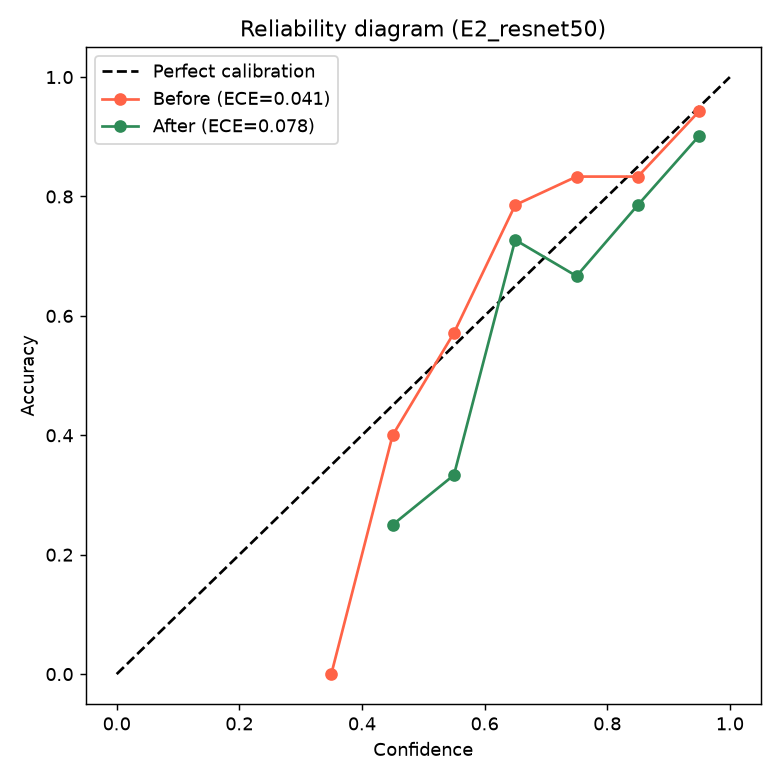
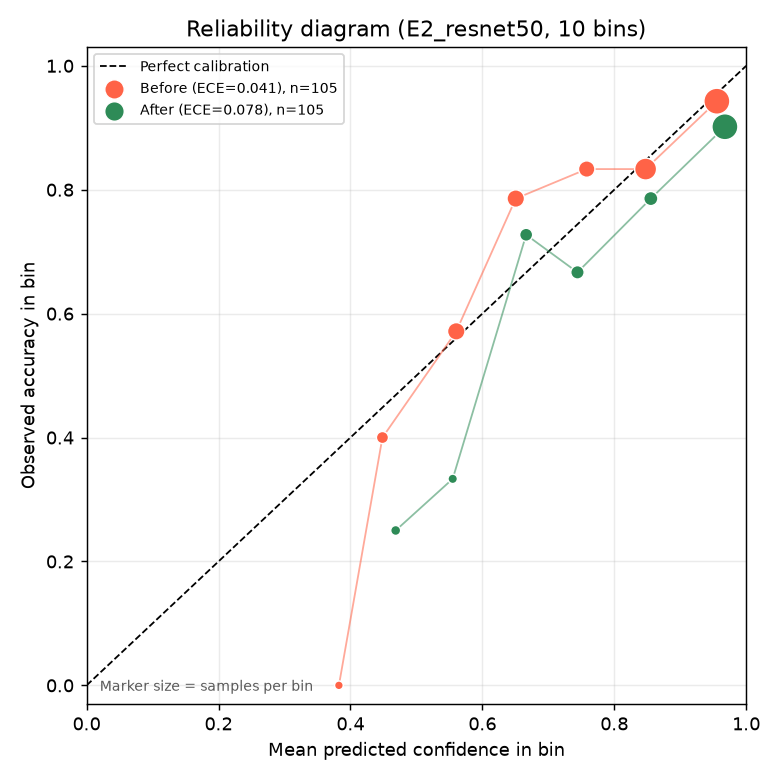
Keep source radiographs out of the report and fix calibration diagrams
Embed only aggregate figures in the report. The Grad-CAM galleries stay in
reports/figures because they contain the source images, and E7 now reports a
summary table instead of per-image rows. The reliability diagram sizes markers
by bin count and places them at the mean confidence of each bin. Add validation
reference numbers to the E8 output so the report can explain why the fitted
temperature does not transfer. Remove the HTML export.

diff --git a/scripts/05_build_report.py b/scripts/05_build_report.py
@@ -385,18 +385,25 @@ def build_report():
             "it cannot change accuracy. It only redistributes confidence across the probability scale. "
             + (
                 f"The class-weighted model is underconfident rather than overconfident, with a gap of "
-                f"{fmt(cw['overconfidence_gap_before'], 2)} between confidence and accuracy, and scaling closes a "
-                f"small part of it, moving ECE from {fmt(cw['ece_before'], 3)} to {fmt(cw['ece_after'], 3)}. "
+                f"{fmt(cw['overconfidence_gap_before'], 2)} between confidence and accuracy. Its temperature of "
+                f"{fmt(cw['temperature'], 2)} pulls confidence up from {fmt(cw['mean_confidence_before'], 2)} to "
+                f"{fmt(cw['mean_confidence_after'], 2)} and moves ECE from {fmt(cw['ece_before'], 3)} to "
+                f"{fmt(cw['ece_after'], 3)}, a marginal improvement. "
                 if cw
                 else ""
             )
             + (
-                f"The unweighted model is calibrated better to begin with, at {fmt(e2['ece_before'], 3)}, yet the "
-                f"same procedure makes it worse, rising to {fmt(e2['ece_after'], 3)}. The reason is that its "
-                "confidence had concentrated around a single answer, and the fitted scale sharpens that further "
-                "instead of spreading it. A low ECE is therefore not evidence that a model is trustworthy: a "
-                "classifier that answers one class with moderate confidence can look well calibrated while missing "
-                "every other class."
+                f"The unweighted model looks better calibrated to begin with, at {fmt(e2['ece_before'], 3)}, and the "
+                f"same procedure makes it worse, raising the error to {fmt(e2['ece_after'], 3)}. The cause is "
+                f"visible in the fitted value. A temperature of {fmt(e2['temperature'], 2)} is below one, so scaling "
+                "sharpens the distribution instead of softening it. It was fitted on a validation set where mean "
+                f"confidence of {fmt(e2['mean_confidence_val'], 2)} ran well below an accuracy of "
+                f"{fmt(e2['accuracy_val'], 2)}, and the fit read that gap as a sign of an underconfident model. On "
+                f"the test set the sharpened predictions then average {fmt(e2['mean_confidence_after'], 2)} "
+                f"confidence against {fmt(e2['accuracy'], 2)} accuracy, so the model ends up overconfident instead. "
+                "A single temperature estimated from 99 images did not transfer to 105 different ones. A low ECE is "
+                "therefore not evidence that a model is trustworthy. A classifier that answers one class with "
+                "moderate confidence can look well calibrated while missing every other class."
                 if e2
                 else ""
             )
@@ -430,21 +437,31 @@ def build_report():
         attn = pd.concat(frames, ignore_index=True)
         means = attn.groupby("Experiment")["central_attention_fraction"].mean()
         hit = attn.assign(correct=attn["true"] == attn["pred"]).groupby("Experiment")["correct"].mean()
+        spread = attn.groupby("Experiment")["central_attention_fraction"].agg(["min", "max"])
+        summary_table = pd.DataFrame(
+            {
+                "Experiment": means.index,
+                "Images": attn.groupby("Experiment").size().values,
+                "Mean central attention": [pct(means[tag]) for tag in means.index],
+                "Attention range": [f"{fmt(spread.loc[tag, 'min'])} - {fmt(spread.loc[tag, 'max'])}" for tag in means.index],
+                "Predicted correctly": [pct(hit[tag]) for tag in means.index],
+            }
+        )
         desc = " ".join(
             f"Across its eight sampled images, {tag} places a mean of {pct(means[tag])} of the activation energy in "
             f"the central region and classifies {pct(hit[tag])} of them correctly."
             for tag in e7_by_tag
         )
-        figs = "\n\n".join(f"![gradcam {tag}](figures/e7_gradcam_gallery_{tag}.png)" for tag in e7_by_tag)
+        # The galleries show the original radiographs next to the heatmaps, so they are part of the
+        # per-image results and stay out of the report. The aggregated attention table is enough.
         interp = (
-            "Both models concentrate most of their attention over the lungs rather than on borders, markers or text, "
-            "which is the reassuring case. The class-weighted model is the more consistent of the two. Its heatmaps "
-            "sit high in the central fraction on most samples and cover both lungs, including on the one viral case "
-            "it classifies correctly rather than defaulting to COVID-19. The unweighted model also looks at the chest, "
-            "but its heatmaps are weaker on the minority cases, which matches its near-total reliance on the "
-            "majority class in the previous sections. Grad-CAM supports this reading but cannot prove it. A heatmap "
-            "inside the chest does not establish that the model responds to the radiological findings a clinician "
-            "would use."
+            "Both models spend most of their activation energy in the central region rather than on borders, markers "
+            "or text, which is the reassuring case. The class-weighted model goes further, placing a higher share "
+            "inside the lungs on average, but it is also less accurate on these particular images. That contrast "
+            "is worth stating plainly: attention that sits over the chest does not make the prediction right. "
+            "Grad-CAM supports the reading that neither model relies on image clutter, but it cannot prove it. A "
+            "heatmap inside the chest does not establish that the model responds to the radiological findings a "
+            "clinician would use."
         )
         sections.append(AnalysisSection(
             title="Where the models look: Grad-CAM (E7)",
@@ -452,11 +469,13 @@ def build_report():
             method="Grad-CAM is computed on the last convolutional block for eight randomly sampled test images per "
                    "model, and the fraction of activation energy falling inside the central region is used as a "
                    "rough indicator of focus on the lungs.",
-            results=figs + "\n\n" + markdown_table(attn.round(3)),
+            results=markdown_table(summary_table),
             description=desc,
             interpretation=interp,
             limitations="Without lung masks the central region is only a coarse proxy, Grad-CAM outputs are low "
-                        "resolution, and eight images per model cannot represent the dataset.",
+                        "resolution, and eight images per model cannot represent the dataset. The heatmap "
+                        "galleries are kept in reports/figures/e7_gradcam_* because they contain the source "
+                        "radiographs, and per-image results are not reproduced here.",
         ))
 
     # ---------- Bootstrap CI ----------

diff --git a/scripts/03_posthoc_analysis.py b/scripts/03_posthoc_analysis.py
@@ -155,24 +155,30 @@ def main():
     test_logits, test_labels, test_probs = forward_logits(model, test_loader, device)
     test_pred = test_probs.argmax(axis=1)
 
+    n_bins = int(cfg["calibration"]["n_bins"])
     conf, correct = prediction_confidences(test_probs, test_pred, test_labels)
-    ece_before, bins_before = expected_calibration_error(conf, correct, cfg["calibration"]["n_bins"])
+    ece_before, bins_before = expected_calibration_error(conf, correct, n_bins)
 
     scaler = TemperatureScaler()
     temp = scaler.fit(val_logits, val_labels)
     scaled_probs = scaler.transform_probs(test_logits)
     scaled_pred = scaled_probs.argmax(axis=1)
     conf_s, correct_s = prediction_confidences(scaled_probs, scaled_pred, test_labels)
-    ece_after, bins_after = expected_calibration_error(conf_s, correct_s, cfg["calibration"]["n_bins"])
+    ece_after, bins_after = expected_calibration_error(conf_s, correct_s, n_bins)
 
     thresholds = [0.3, 0.4, 0.5, 0.6, 0.7, 0.8, 0.9]
     selective = [selective_prediction(conf_s, scaled_pred, test_labels, t) for t in thresholds]
 
+    val_pred = val_probs.argmax(axis=1)
     calib = {
         "temperature": temp,
         "ece_before": ece_before,
         "ece_after": ece_after,
         "mean_confidence_before": float(conf.mean()),
+        "mean_confidence_after": float(conf_s.mean()),
+        # Validation reference, so the report can explain why a fitted temperature may not transfer.
+        "mean_confidence_val": float(val_probs.max(axis=1).mean()),
+        "accuracy_val": float((val_pred == val_labels).mean()),
         "accuracy": float((test_pred == test_labels).mean()),
         "overconfidence_gap_before": float(conf.mean() - (test_pred == test_labels).mean()),
         "selective_prediction": selective,
@@ -184,17 +190,28 @@ def main():
 
     # reliability diagram
     fig, ax = plt.subplots(figsize=(6, 6))
-    ax.plot([0, 1], [0, 1], "k--", label="Perfect calibration")
+    ax.plot([0, 1], [0, 1], "k--", lw=1, label="Perfect calibration")
     for bins, lbl, color in [(bins_before, f"Before (ECE={ece_before:.3f})", "tomato"),
                              (bins_after, f"After (ECE={ece_after:.3f})", "seagreen")]:
-        bdf = pd.DataFrame(bins).dropna(subset=["accuracy"])
+        bdf = pd.DataFrame(bins)
+        bdf = bdf[bdf["count"] > 0].dropna(subset=["accuracy"])
         if len(bdf):
-            centers = (bdf["bin_lo"] + bdf["bin_hi"]) / 2
-            ax.plot(centers, bdf["accuracy"], marker="o", label=lbl, color=color)
-    ax.set_xlabel("Confidence")
-    ax.set_ylabel("Accuracy")
-    ax.set_title(f"Reliability diagram ({tag})")
-    ax.legend()
+            # Point size follows the number of samples in the bin. Empty bins carry no
+            # evidence and are left out, so the curve never implies more data than exists.
+            sizes = 18 + 190 * (bdf["count"] / bdf["count"].max())
+            ax.scatter(bdf["avg_confidence"], bdf["accuracy"], s=sizes, color=color,
+                       edgecolor="white", linewidth=0.8, zorder=3,
+                       label=f"{lbl}, n={int(bdf['count'].sum())}")
+            ax.plot(bdf["avg_confidence"], bdf["accuracy"], color=color, lw=1, alpha=0.55, zorder=2)
+    ax.set_xlabel("Mean predicted confidence in bin")
+    ax.set_ylabel("Observed accuracy in bin")
+    ax.set_xlim(0, 1)
+    ax.set_ylim(-0.03, 1.03)
+    ax.grid(alpha=0.25)
+    ax.set_title(f"Reliability diagram ({tag}, {n_bins} bins)")
+    ax.text(0.02, 0.02, "Marker size = samples per bin", transform=ax.transAxes,
+            fontsize=8, color="0.35")
+    ax.legend(loc="upper left", fontsize=8)
     plt.tight_layout()
     plt.savefig(figures / f"e8_reliability_diagram_{tag}.png", dpi=130)
     plt.close()

diff --git a/reports/ANALYSIS_REPORT.md b/reports/ANALYSIS_REPORT.md
@@ -190,7 +190,7 @@ E2_resnet50 enters calibration with an ECE of 0.041 at a mean confidence of 0.79
 
 ### Interpretation
 
-Temperature scaling is fitted on the validation set and then applied to the test set, so by construction it cannot change accuracy. It only redistributes confidence across the probability scale. The class-weighted model is underconfident rather than overconfident, with a gap of -0.07 between confidence and accuracy, and scaling closes a small part of it, moving ECE from 0.153 to 0.148. The unweighted model is calibrated better to begin with, at 0.041, yet the same procedure makes it worse, rising to 0.078. The reason is that its confidence had concentrated around a single answer, and the fitted scale sharpens that further instead of spreading it. A low ECE is therefore not evidence that a model is trustworthy: a classifier that answers one class with moderate confidence can look well calibrated while missing every other class. Selective prediction splits along the same fault line. For the unweighted model, abstaining on low-confidence cases pushes accuracy from 0.80 at full coverage to about 0.90 when roughly 58% of the images are retained, but the retained images are the ones it was already calling COVID-19, so the gain reflects the majority class rather than new diagnostic ability. For the class-weighted model no threshold reaches 0.62 accuracy, so there is no operating point worth setting. Abstention can express uncertainty, but it cannot supply the missing class information.
+Temperature scaling is fitted on the validation set and then applied to the test set, so by construction it cannot change accuracy. It only redistributes confidence across the probability scale. The class-weighted model is underconfident rather than overconfident, with a gap of -0.07 between confidence and accuracy. Its temperature of 0.66 pulls confidence up from 0.49 to 0.58 and moves ECE from 0.153 to 0.148, a marginal improvement. The unweighted model looks better calibrated to begin with, at 0.041, and the same procedure makes it worse, raising the error to 0.078. The cause is visible in the fitted value. A temperature of 0.71 is below one, so scaling sharpens the distribution instead of softening it. It was fitted on a validation set where mean confidence of 0.74 ran well below an accuracy of 0.85, and the fit read that gap as a sign of an underconfident model. On the test set the sharpened predictions then average 0.86 confidence against 0.80 accuracy, so the model ends up overconfident instead. A single temperature estimated from 99 images did not transfer to 105 different ones. A low ECE is therefore not evidence that a model is trustworthy. A classifier that answers one class with moderate confidence can look well calibrated while missing every other class. Selective prediction splits along the same fault line. For the unweighted model, abstaining on low-confidence cases pushes accuracy from 0.80 at full coverage to about 0.90 when roughly 58% of the images are retained, but the retained images are the ones it was already calling COVID-19, so the gain reflects the majority class rather than new diagnostic ability. For the class-weighted model no threshold reaches 0.62 accuracy, so there is no operating point worth setting. Abstention can express uncertainty, but it cannot supply the missing class information.
 
 ### Limitations
 
@@ -204,38 +204,20 @@ The temperature is fitted on only 99 validation images, and ECE depends on the n
 
 ### Results
 
-![gradcam E2_resnet50](figures/e7_gradcam_gallery_E2_resnet50.png)
-
-![gradcam E4_resnet50_class_weighted](figures/e7_gradcam_gallery_E4_resnet50_class_weighted.png)
-
-| filename | true | pred | confidence | central_attention_fraction | Experiment |
-| --- | --- | --- | --- | --- | --- |
-| bdc40f9ad2395d88c92479089f5d1b_jumbo-10.jpeg | Bacterial_Pneumonia | COVID-19 | 0.8080 | 0.6450 | E2_resnet50 |
-| tpmd200203f2-c.png | COVID-19 | COVID-19 | 0.9610 | 0.5370 | E2_resnet50 |
-| 000001-4.jpg | Viral_Pneumonia | COVID-19 | 0.5390 | 0.4820 | E2_resnet50 |
-| 5782ae15.jpg | COVID-19 | COVID-19 | 0.8580 | 0.8100 | E2_resnet50 |
-| 16953_4_1.jpg | COVID-19 | COVID-19 | 0.8710 | 0.8270 | E2_resnet50 |
-| covid-19-pneumonia-progression-and-regression-day13.jpg | COVID-19 | COVID-19 | 0.9820 | 0.8490 | E2_resnet50 |
-| gr1_lrg-b.jpg | COVID-19 | COVID-19 | 0.9590 | 0.6640 | E2_resnet50 |
-| covid-19-caso-95-1-15.png | COVID-19 | COVID-19 | 0.6400 | 0.6730 | E2_resnet50 |
-| bdc40f9ad2395d88c92479089f5d1b_jumbo-10.jpeg | Bacterial_Pneumonia | COVID-19 | 0.4280 | 0.7190 | E4_resnet50_class_weighted |
-| tpmd200203f2-c.png | COVID-19 | COVID-19 | 0.6000 | 0.4940 | E4_resnet50_class_weighted |
-| 000001-4.jpg | Viral_Pneumonia | Viral_Pneumonia | 0.3820 | 0.9430 | E4_resnet50_class_weighted |
-| 5782ae15.jpg | COVID-19 | COVID-19 | 0.3830 | 0.7720 | E4_resnet50_class_weighted |
-| 16953_4_1.jpg | COVID-19 | Bacterial_Pneumonia | 0.6930 | 0.9320 | E4_resnet50_class_weighted |
-| covid-19-pneumonia-progression-and-regression-day13.jpg | COVID-19 | COVID-19 | 0.6810 | 0.8850 | E4_resnet50_class_weighted |
-| gr1_lrg-b.jpg | COVID-19 | COVID-19 | 0.5300 | 0.7180 | E4_resnet50_class_weighted |
-| covid-19-caso-95-1-15.png | COVID-19 | Bacterial_Pneumonia | 0.3880 | 0.9390 | E4_resnet50_class_weighted |
+| Experiment | Images | Mean central attention | Attention range | Predicted correctly |
+| --- | --- | --- | --- | --- |
+| E2_resnet50 | 8 | 69% | 0.4821 - 0.8494 | 75% |
+| E4_resnet50_class_weighted | 8 | 80% | 0.4943 - 0.9433 | 62% |
 
 Across its eight sampled images, E2_resnet50 places a mean of 69% of the activation energy in the central region and classifies 75% of them correctly. Across its eight sampled images, E4_resnet50_class_weighted places a mean of 80% of the activation energy in the central region and classifies 62% of them correctly.
 
 ### Interpretation
 
-Both models concentrate most of their attention over the lungs rather than on borders, markers or text, which is the reassuring case. The class-weighted model is the more consistent of the two. Its heatmaps sit high in the central fraction on most samples and cover both lungs, including on the one viral case it classifies correctly rather than defaulting to COVID-19. The unweighted model also looks at the chest, but its heatmaps are weaker on the minority cases, which matches its near-total reliance on the majority class in the previous sections. Grad-CAM supports this reading but cannot prove it. A heatmap inside the chest does not establish that the model responds to the radiological findings a clinician would use.
+Both models spend most of their activation energy in the central region rather than on borders, markers or text, which is the reassuring case. The class-weighted model goes further, placing a higher share inside the lungs on average, but it is also less accurate on these particular images. That contrast is worth stating plainly: attention that sits over the chest does not make the prediction right. Grad-CAM supports the reading that neither model relies on image clutter, but it cannot prove it. A heatmap inside the chest does not establish that the model responds to the radiological findings a clinician would use.
 
 ### Limitations
 
-Without lung masks the central region is only a coarse proxy, Grad-CAM outputs are low resolution, and eight images per model cannot represent the dataset.
+Without lung masks the central region is only a coarse proxy, Grad-CAM outputs are low resolution, and eight images per model cannot represent the dataset. The heatmap galleries are kept in reports/figures/e7_gradcam_* because they contain the source radiographs, and per-image results are not reproduced here.
 
 ## 8. How much the scores could move (bootstrap intervals)
 

diff --git a/README.md b/README.md
@@ -75,16 +75,12 @@ python scripts/04_bootstrap_ci.py --experiment E3_efficientnet_b0
 
 # Assemble the final report
 python scripts/05_build_report.py
-
-# Optional: export a justified HTML version (requires pandoc)
-python scripts/08_export_html.py
 ```
 
 Final report: **`reports/ANALYSIS_REPORT.md`**. It opens with a summary, then presents each
 analysis as objective, method, results (tables and figures), interpretation, and limitations.
-
-The optional HTML export applies justified alignment from `reports/report.css` and embeds the
-figures, so the single `.html` file can be opened or printed from any browser.
+The report embeds only aggregate figures. The Grad-CAM heatmap galleries stay in
+`reports/figures/e7_gradcam_*` because they contain the source radiographs.
 
 ## Project structure
 
